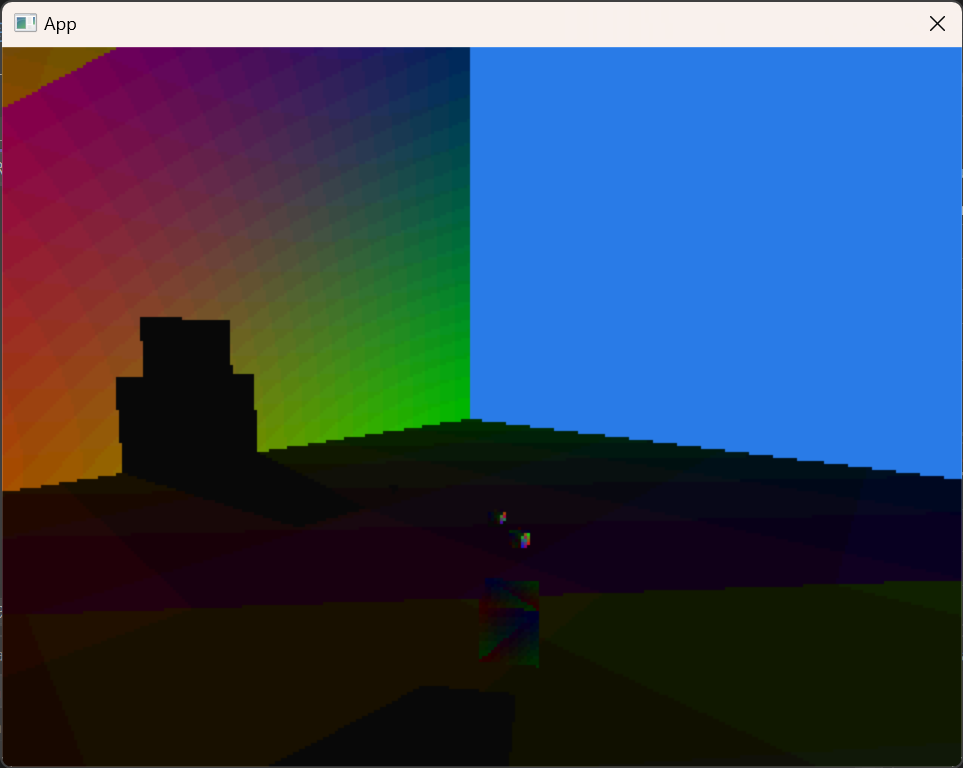
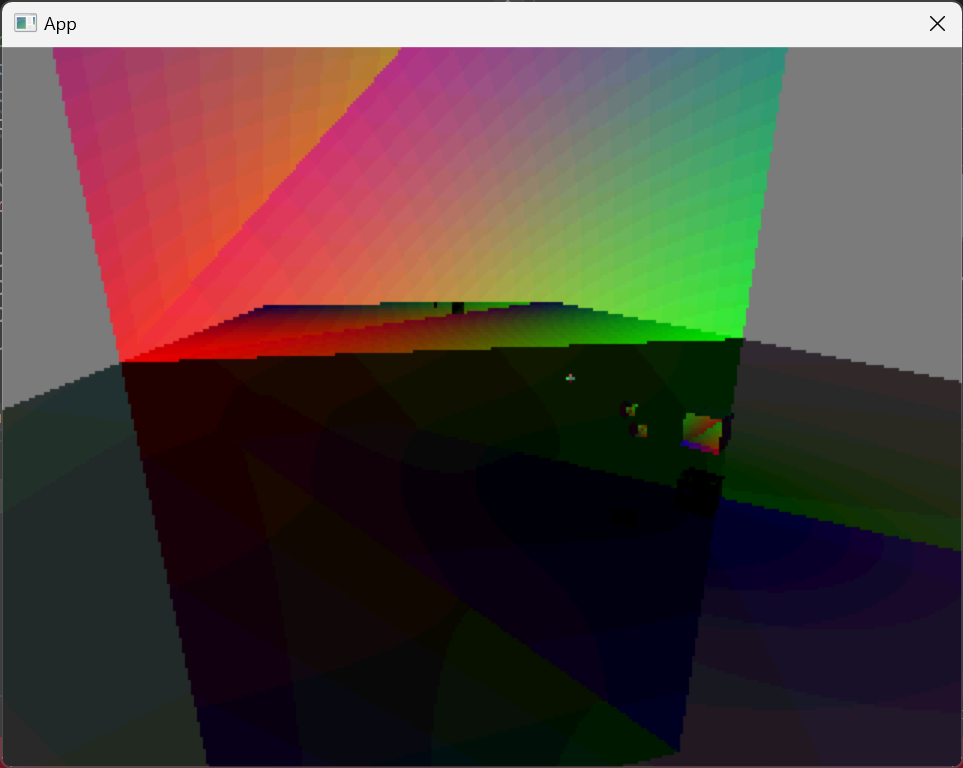
Fix colors

diff --git a/src/main.cpp b/src/main.cpp
@@ -24,7 +24,8 @@ inline DirectX::XMFLOAT3A TraceRays(std::span<model::Mesh> meshes,
                                     bool& show_reflections) {
   // Trace camera rays.
   float closest_distance = std::numeric_limits<float>::infinity();
-  DirectX::XMFLOAT3A color = {0.18f, 0.5f, 0.9f};
+  const auto ambient = DirectX::XMVectorReplicate(0.2f);
+  DirectX::XMFLOAT3A color = {0.5f, 0.5f, 0.5f};
 
   for (auto mesh_index = 0U; mesh_index < meshes.size(); ++mesh_index) {
     for (auto face_index = 0U; face_index < meshes[mesh_index].second.size();
@@ -46,6 +47,10 @@ inline DirectX::XMFLOAT3A TraceRays(std::span<model::Mesh> meshes,
         DirectX::XMVECTOR world_shadow_direction =
             utils::xm::ray::GetNormalizedDirectionFromPoints(world_intersection,
                                                              light_position);
+
+        DirectX::XMVECTOR barycentrics = DirectX::XMVectorSet(
+            1.0f - result->x - result->y, result->x, result->y, 1.0f);
+
         // Trace shadow rays.
         bool in_shadow = false;
         if (visible_shadows) {
@@ -97,14 +102,15 @@ inline DirectX::XMFLOAT3A TraceRays(std::span<model::Mesh> meshes,
           DirectX::XMVECTOR xm_light_direction = DirectX::XMVector3Normalize(
               DirectX::XMVectorSubtract(light_position, world_intersection));
 
-          float lambertian =
-              std::fmaxf(0.0f, DirectX::XMVectorGetX(DirectX::XMVector3Dot(
-                                   xm_surface_normal, xm_light_direction)));
-          lambertian = std::clamp(lambertian, 0.2f, 1.0f);
-          color = {(1.0f - result->x - result->y), result->x, result->y};
-          color.x *= lambertian;
-          color.y *= lambertian;
-          color.z *= lambertian;
+          float lambertian = DirectX::XMVectorGetX(
+              DirectX::XMVector3Dot(xm_surface_normal, xm_light_direction));
+
+          DirectX::XMVECTOR xm_lambertian =
+              DirectX::XMVectorReplicate(lambertian);
+
+          color = utils::xm::float3a::Store(
+              DirectX::XMVectorSaturate(DirectX::XMVectorMultiplyAdd(
+                  barycentrics, xm_lambertian, ambient)));
         }  // if (not in shadow).
 
         // Trace reflection rays.
@@ -128,12 +134,11 @@ inline DirectX::XMFLOAT3A TraceRays(std::span<model::Mesh> meshes,
                   meshes[reflection_mesh_index].first,
                   meshes[reflection_mesh_index].second[reflection_face_index]);
               const auto reflection_direction =
-                  DirectX::XMVector3Normalize(DirectX::XMVector3Reflect(
+                  DirectX::XMVector3NormalizeEst(DirectX::XMVector3Reflect(
 
                       xm_world_direction, xm_surface_normal));
 
               const auto offset = 1E-2f;
-
               const auto xm_world_origin_offset = DirectX::XMVectorAdd(
                   world_intersection,
                   DirectX::XMVectorScale(reflection_direction, offset));
@@ -147,18 +152,15 @@ inline DirectX::XMFLOAT3A TraceRays(std::span<model::Mesh> meshes,
                 // Calculate the color at the reflection intersection
                 // point.
                 DirectX::XMVECTOR reflection_color = DirectX::XMVectorSet(
-                    (1.0f - reflection_result->x - reflection_result->y),
-                    reflection_result->x, reflection_result->y, 0.0f);
-                constexpr float reflectivity = 0.95f;
+                    (1.0f - reflection_result->x - reflection_result->y) *
+                        color.x,
+                    reflection_result->x * color.y,
+                    reflection_result->y * color.z, 0.0f);
 
-                // Combine the original color and the reflection
-                // color.
-                color = utils::xm::float3a::Store(
-                    DirectX::XMVectorSaturate(DirectX::XMVectorAdd(
-                        DirectX::XMVectorScale(utils::xm::float3a::Load(color),
-                                               1.0f - reflectivity),
-                        DirectX::XMVectorScale(reflection_color,
-                                               reflectivity))));
+                constexpr float reflectivity = 0.95f;
+                color = utils::xm::float3a::Store(DirectX::XMVectorSaturate(
+                    DirectX::XMVectorLerp(utils::xm::float3a::Load(color),
+                                          reflection_color, reflectivity)));
               }
             }
           }
